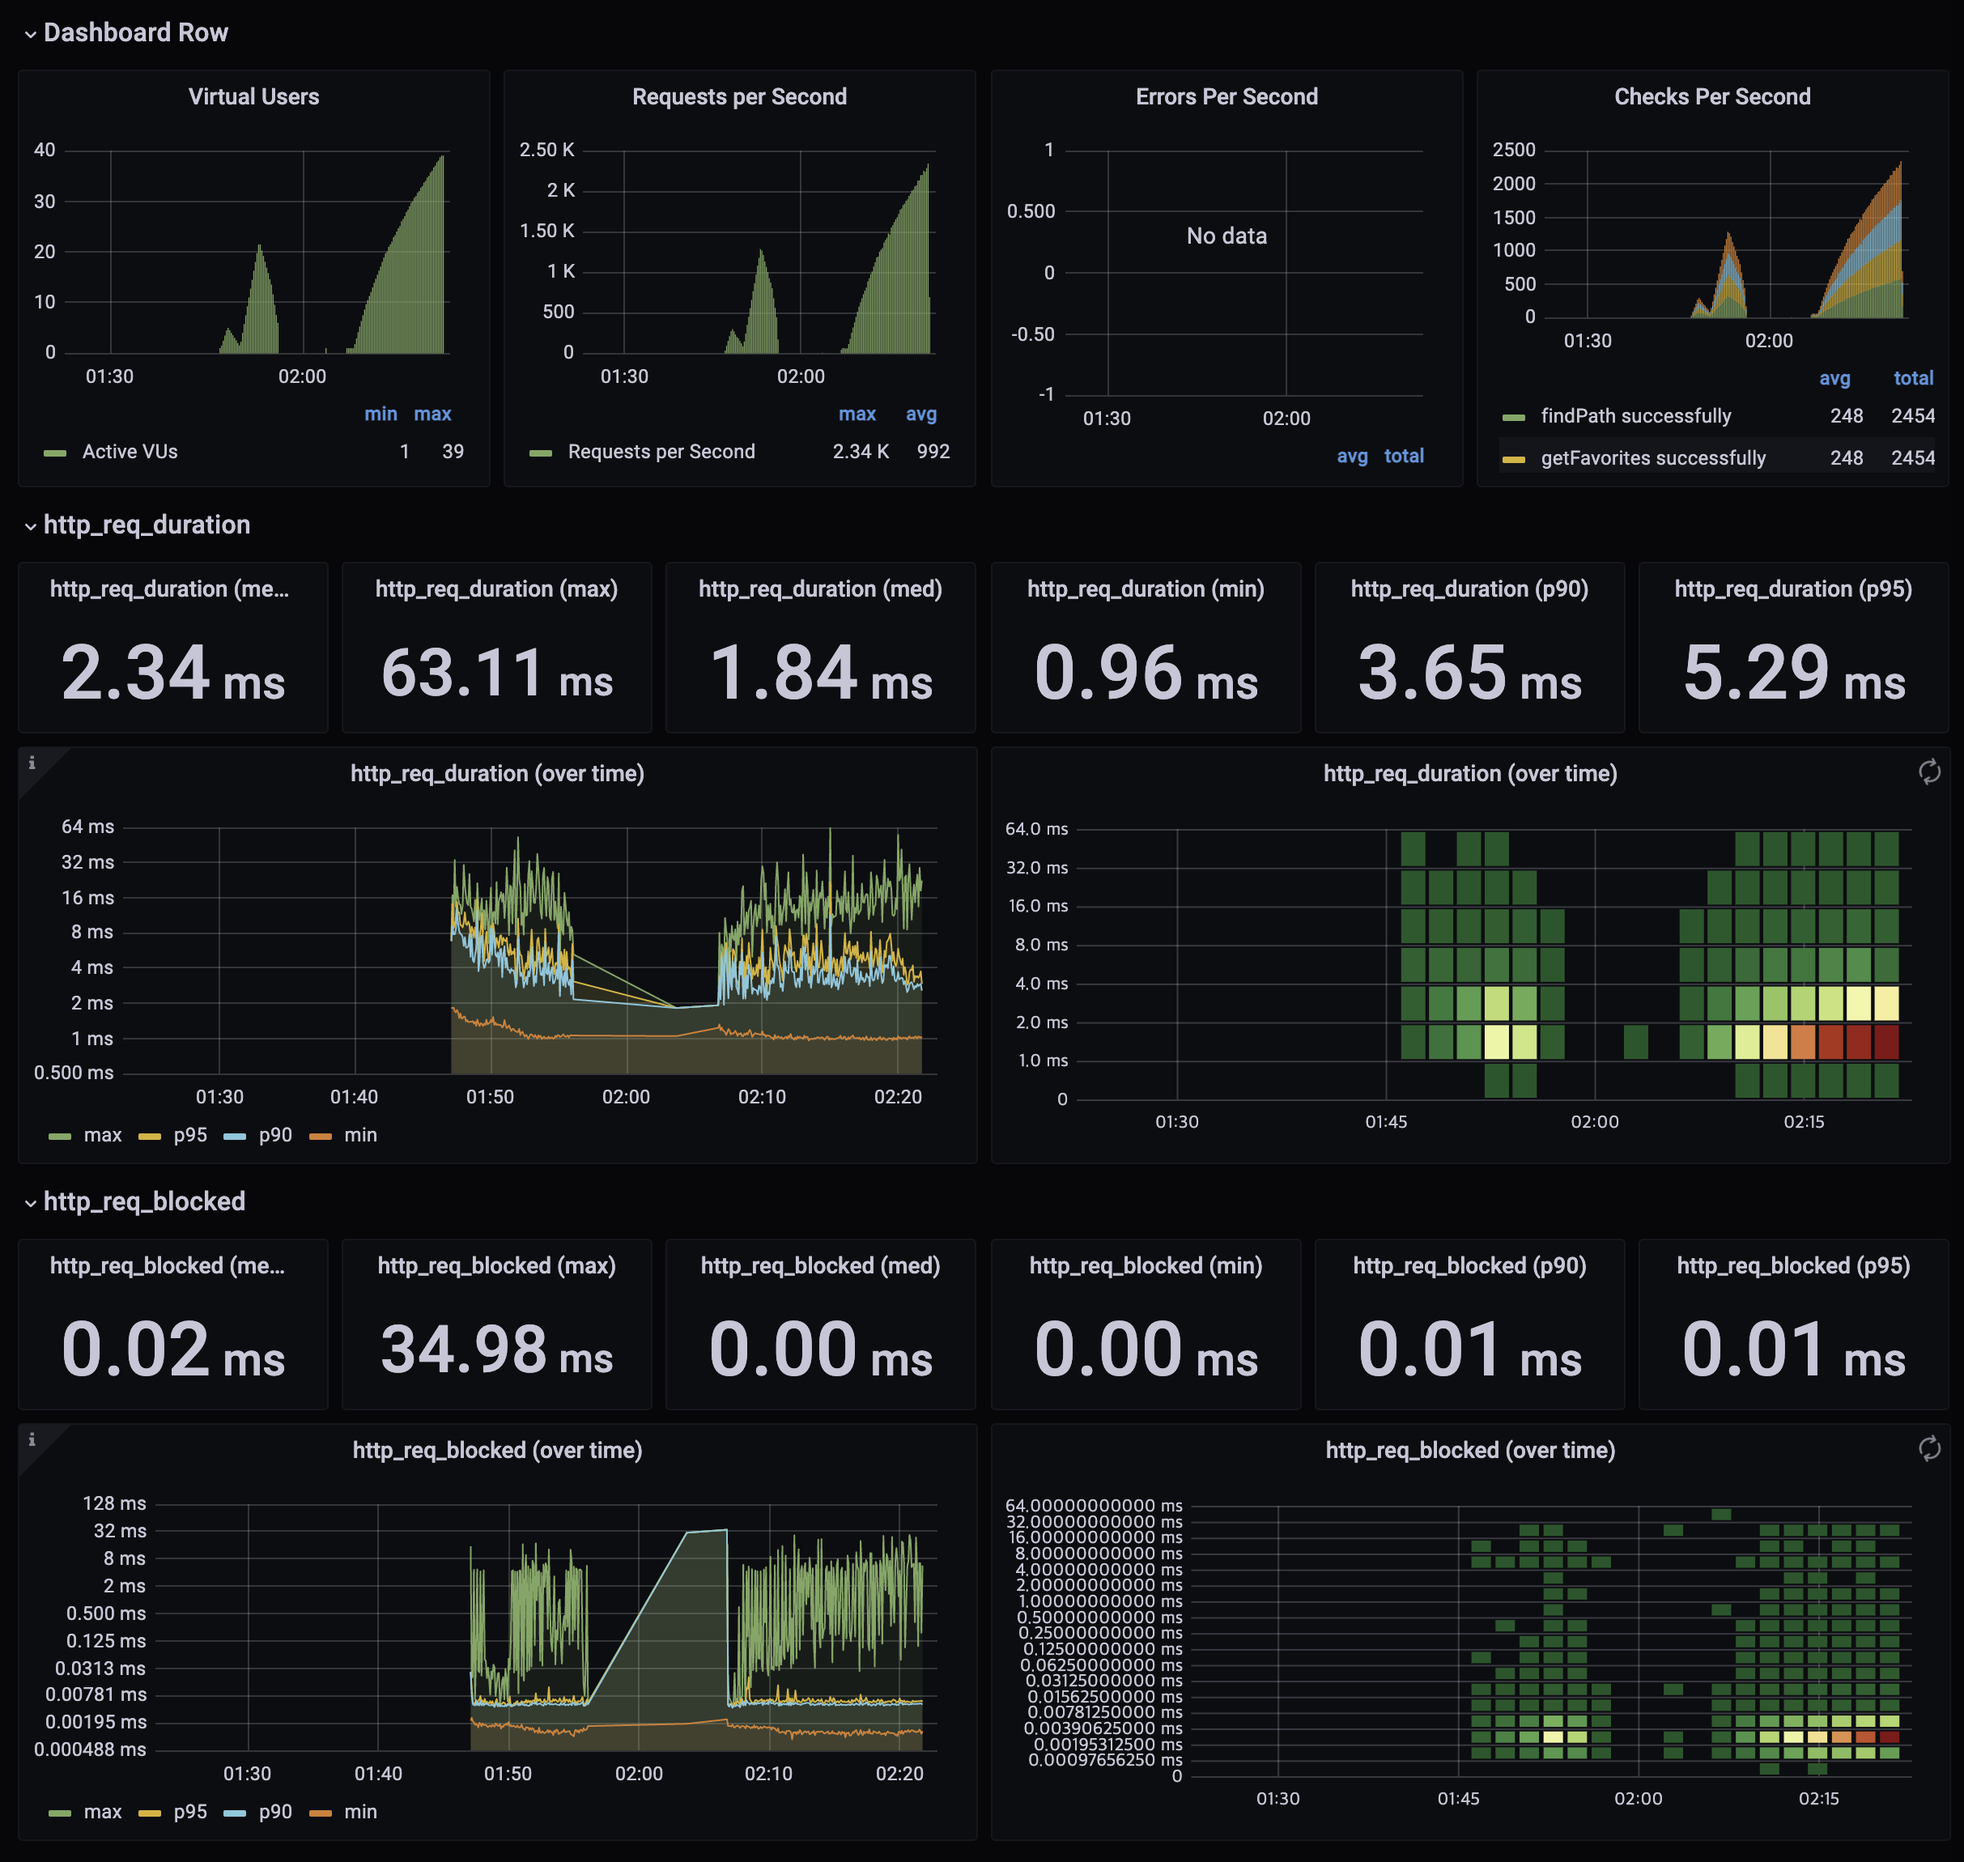
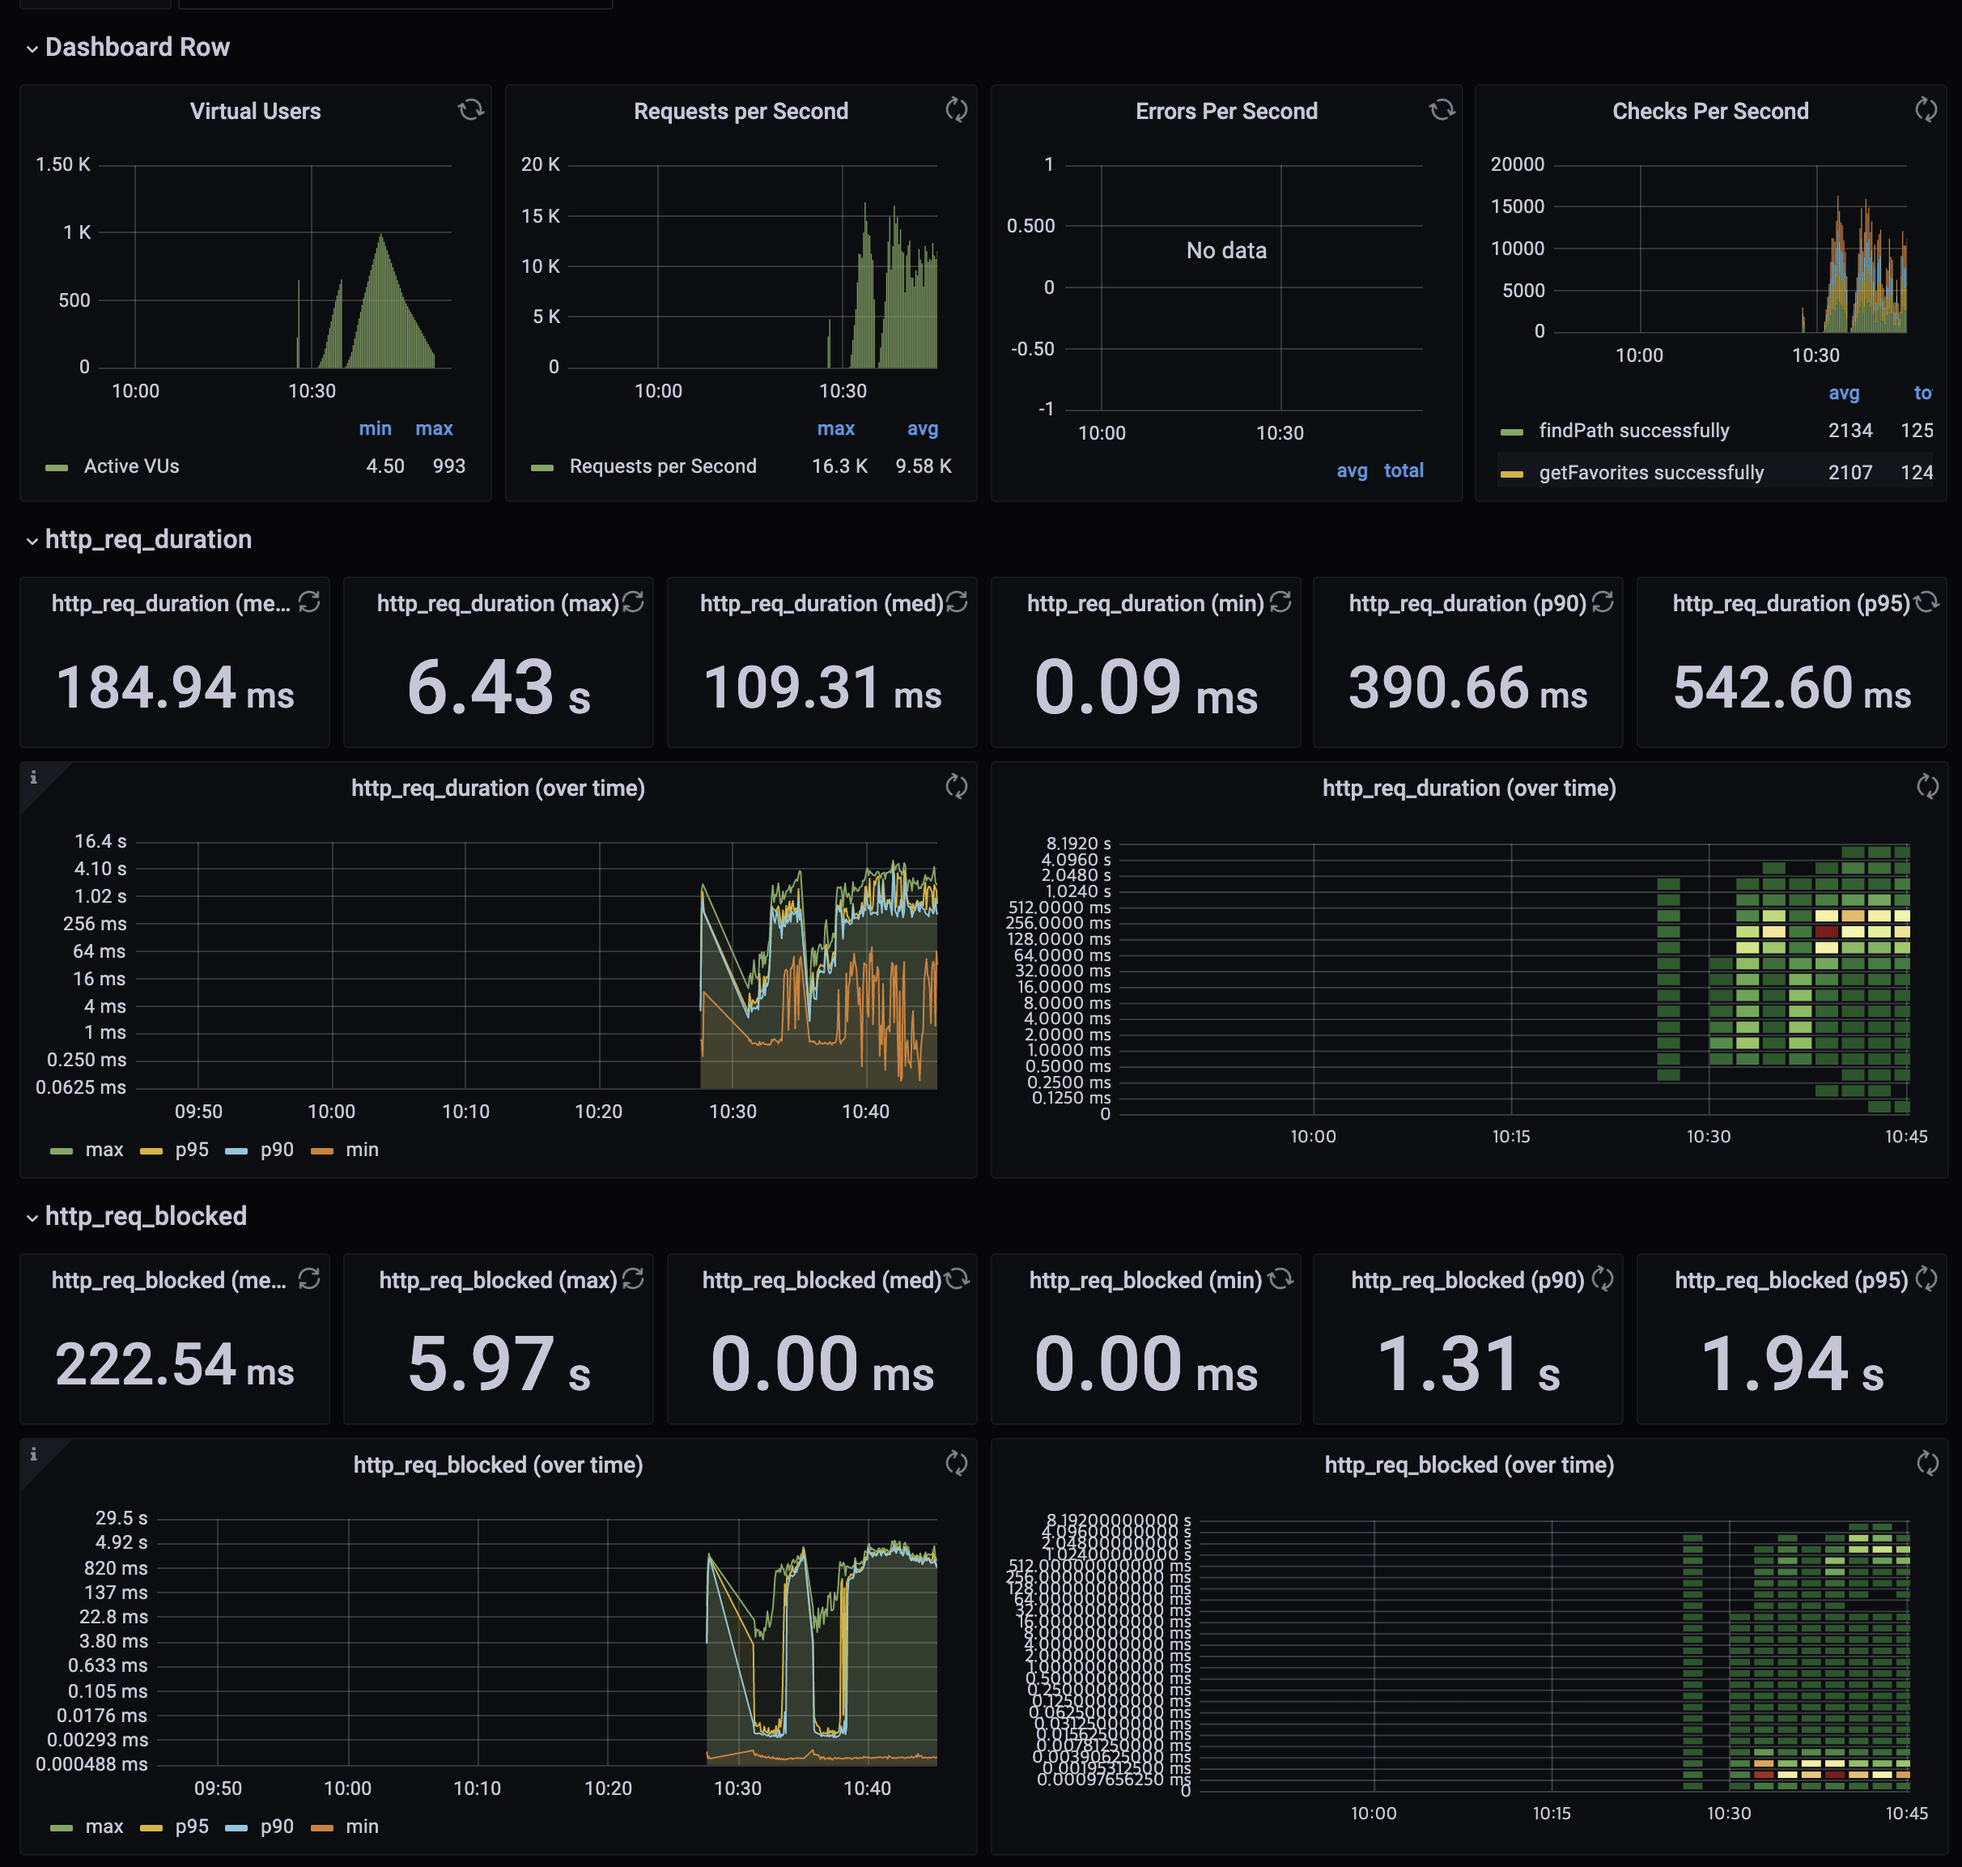
refactor : stress 수정

diff --git a/load-test/stress/stress.js b/load-test/stress/stress.js
@@ -3,11 +3,11 @@ import { check, group, sleep, fail } from 'k6';
 
 export const options = {
     stages: [
-        { duration: '1m', target: 1 },
-        { duration: '2m', target: 10 },
-        { duration: '3m', target: 20 },
-        { duration: '4m', target: 30 },
-        { duration: '5m', target: 40 },
+        { duration: '1s', target: 1 },
+        { duration: '2s', target: 100 },
+        { duration: '3s', target: 500 },
+        { duration: '4s', target: 1000 },
+        { duration: '1s', target: 10 },
     ],
     thresholds: {
         http_req_duration: ['p(99) < 1500'],
